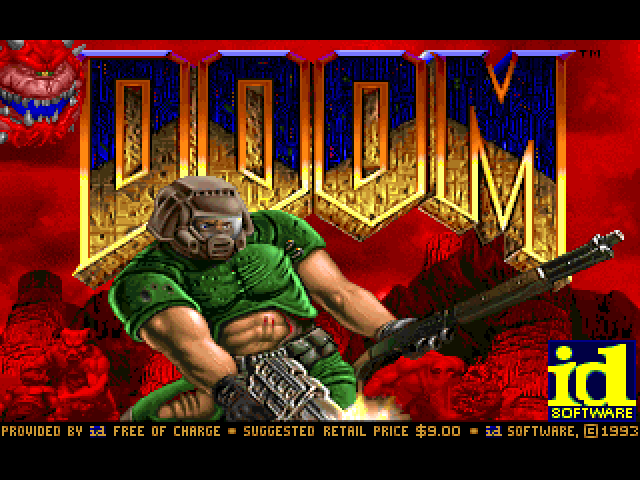
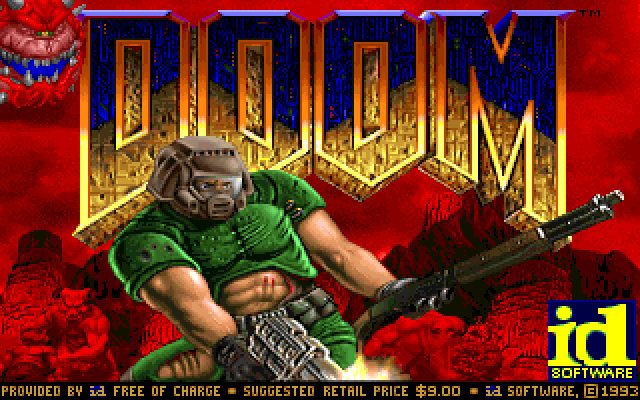
feat: fill the whole screen by switching to 640x400 at 70 Hz
The picture used to sit in the middle of a 640x480 frame with black
bars above and below. The board now outputs the VGA mode DOS Doom ran
in, so the monitor stretches the same 320x200 framebuffer over its full
4:3 screen, which is the shape the game's art was drawn for. Nothing
changes for software or memory use.

The frame counter now ticks at 69.6 Hz, and the emulator follows, so
key scripts timed in frames play slightly faster. The simulation frame
grabber captures the new 640x400 picture.

💘 Generated with Crush

Assisted-by: Crush:claude-fable-5-2

diff --git a/emu/doomacracy_emu.c b/emu/doomacracy_emu.c
@@ -12,7 +12,7 @@
  * accesses and illegal instructions are fatal and report the pc.
  *
  * Time is derived from the retired instruction count: cycles = instret * cpi.
- * TIMER_US = cycles / 50, TIMER_CYCLES = cycles, FRAME_COUNT = cycles / 833333.
+ * TIMER_US = cycles / 50, TIMER_CYCLES = cycles, FRAME_COUNT = cycles / 718400.
  *
  * Build: cc -O2 -o emu doomacracy_emu.c
  * Run "emu --help" for options.
@@ -35,7 +35,7 @@ static uint32_t sdram_size_v = 8u * 1024 * 1024;  /* --sdram-mb */
 #define FLASH_SIZE (4u * 1024 * 1024)
 
 #define CLK_HZ          50000000ull
-#define CYCLES_PER_VGA  833333ull
+#define CYCLES_PER_VGA  718400ull   /* 800 x 449 pixels, two cycles each: 69.6 Hz */
 #define PS2_BYTE_CYCLES 50000ull /* about 1 ms per PS/2 byte */
 
 #define FB_W 320

diff --git a/sw/doom/i_video_doomacracy.c b/sw/doom/i_video_doomacracy.c
@@ -105,7 +105,7 @@ void I_FinishUpdate(void)
     // The buffer we are about to overwrite was the displayed one until the
     // last flip; FB_BASE is latched once per VGA frame, so make sure a frame
     // boundary has passed since then. Rendering a frame normally takes much
-    // longer than 16.7 ms, so this rarely waits.
+    // longer than 14.4 ms, so this rarely waits.
     while (FRAME_COUNT == flip_frame)
     {
     }

diff --git a/spec.md b/spec.md
@@ -13,7 +13,7 @@ Quartus.
 | toolchain | Quartus II 8.1 Web Edition (13.0 SP1 also works), nvc for sim; the JTAG Tcl scripts are Tcl 8.4 |
 | system clock | 50 MHz `CLOCK_50`, one clock domain |
 | CPU | RV32IMA with Zicsr, M and U modes, timer and software interrupts (see Linux platform) |
-| video | 320x200 8 bpp from SRAM, doubled to 640x400 inside 640x480 @ 60 Hz |
+| video | 320x200 8 bpp from SRAM, doubled to 640x400 @ 70 Hz (the monitor stretches it to 4:3) |
 | input | PS/2 keyboard, raw scancode bytes to software |
 | software | doomgeneric, `riscv32-none-elf-gcc` + newlib, `-march=rv32im -mabi=ilp32` |
 
@@ -95,8 +95,12 @@ and spins with the LEDs showing an error.
 
 ## Video
 
-- 640x480 @ 60 Hz timing (25 MHz pixel enable from the 50 MHz clock).
-- Rows 40..439 show the framebuffer, each source pixel 2x2. Everything else is black.
+- 640x400 @ 70 Hz timing, the VGA mode DOS Doom ran in (25 MHz pixel enable from
+  the 50 MHz clock; 800 x 449 total, hsync negative, vsync positive). A frame is
+  718,400 clock cycles, 69.6 Hz.
+- All 400 rows show the framebuffer, each source pixel 2x2. The monitor
+  stretches the 400 lines over its 4:3 screen, which is the aspect Doom's art
+  was drawn for.
 - Each 320-byte source line is prefetched from SRAM into an M4K line buffer while
   the previous line is on screen. Video wins SRAM arbitration.
 - Palette: 256 x 12-bit M4K, written through `PALETTE`.

diff --git a/sw/README.md b/sw/README.md
@@ -131,7 +131,7 @@ I/O. A jump to itself (`j .`) halts the run (that is what `_exit` and the
 boot ROM error path do). ecall/ebreak also stop it.
 
 Time comes from the instruction count: cycles = instret * cpi
-(`--cpi`, default 3), TIMER_US = cycles / 50, FRAME_COUNT = cycles / 833333.
+(`--cpi`, default 3), TIMER_US = cycles / 50, FRAME_COUNT = cycles / 718400.
 UART output goes to stdout (CR dropped). SWITCHES returns `--switches` with
 all KEYs released.
 
